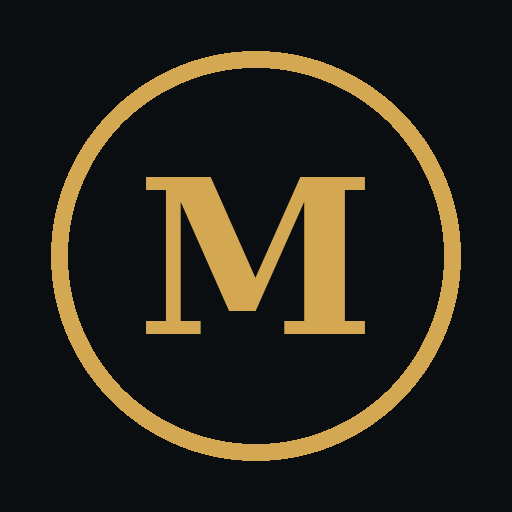
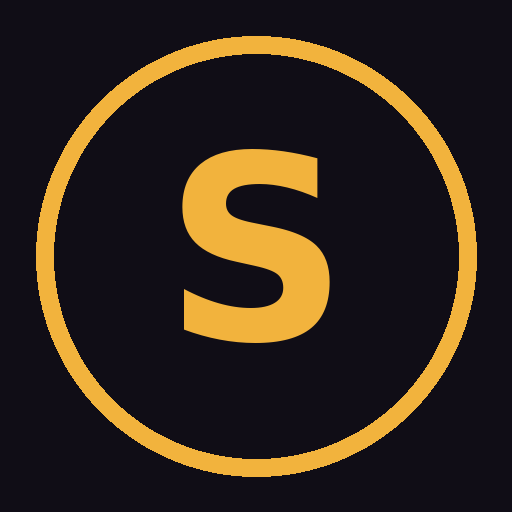
Add files via upload

Changed region(s): [[0.0625, 0.0625, 0.9375, 0.9375], [0.2812, 0.2812, 0.7188, 0.6875]]

diff --git a/index.html b/index.html
@@ -3,7 +3,7 @@
 <head>
 <meta charset="UTF-8">
 <meta name="viewport" content="width=device-width, initial-scale=1, viewport-fit=cover">
-<title>StarClip Studio v33.1 — Multi-plans 3.0 · par Studio Rudis, Douala.</title>
+<title>StarClip Studio v33.2 — limite 512 car. corrigée · par Studio Rudis, Douala.</title>
 <link rel="manifest" href="manifest.json">
 <link rel="icon" href="icon-192.png">
 <link rel="apple-touch-icon" href="icon-192.png">
@@ -304,7 +304,7 @@
   </section>
 
   <footer>
-    StarClip Studio <b style="color:var(--gold)">v33.1 — Multi-plans 3.0 (Kling 3.0)</b> · par Studio Rudis, Douala. Chaque création est débitée du crédit du studio.
+    StarClip Studio <b style="color:var(--gold)">v33.2 — Multi-plans corrigé (budget affiché)</b> · par Studio Rudis, Douala. Chaque création est débitée du crédit du studio.
     Génère des segments de 5–10 s puis assemble-les dans CapCut avec ton audio original.
   </footer>
 </div>
@@ -1675,6 +1675,13 @@ if ("serviceWorker" in navigator) navigator.serviceWorker.register("sw.js");
 // ——— v33.1 : MULTI-PLANS 3.0 (Kling 3.0, multi_prompt) ———
 // 2 à 6 plans, 15 s max au total, identité @Element1 (photos de référence visage).
 // Tarif : 2 vidéos débitées du code (appliqué par le serveur, affiché en toutes lettres).
+// v33.2 : budget réel de caractères par plan (Kling O3 limite chaque prompt à 512 car.
+// — le préfixe technique + les garde-fous courts sont fixes, ce qui reste = marge du client).
+const MS_SHORT_GUARD_LEN = " Same props as photo, no duplicated items. Person fully in frame, eyes open, realistic smooth motion. Exact same face and identity, do not alter.".length;
+const MS_PREFIX0_LEN = "Take @Image1 as the visual starting point. The person in every shot is @Element1 — keep their exact face, skin tone and identity unchanged at all times. ".length;
+const MS_PREFIXN_LEN = "Same person @Element1, exact same face and identity as the previous shot. ".length;
+function msBudget(i) { return 512 - (i === 0 ? MS_PREFIX0_LEN : MS_PREFIXN_LEN) - MS_SHORT_GUARD_LEN; }
+
 let msPlans = [{ prompt: "", d: 5 }, { prompt: "", d: 5 }];
 function msTotal() { return msPlans.reduce((s, p) => s + p.d, 0); }
 
@@ -1685,12 +1692,14 @@ function msRender() {
     const div = document.createElement("div");
     div.style.cssText = "margin-top:10px; padding:10px 12px; background:var(--up); border:1px solid var(--line); border-radius:10px;";
     const delBtn = msPlans.length > 2 ? `<button class="chip" data-del="${i}">✕ Retirer</button>` : "";
+    const budget = msBudget(i);
     div.innerHTML = `
       <div style="display:flex; justify-content:space-between; align-items:center;">
         <b style="font-size:13px; color:var(--gold);">Plan ${i + 1}</b>${delBtn}
       </div>
       <textarea data-idx="${i}" rows="2" placeholder="Ex : je marche vers la caméra sur la plage au coucher du soleil" style="width:100%; margin-top:8px; background:var(--panel); border:1px solid var(--line); border-radius:8px; color:var(--text); padding:8px 10px; font-size:14px; line-height:1.5; resize:vertical;"></textarea>
-      <div class="chips" style="margin-top:8px;">
+      <div class="estimate" data-charcount="${i}" style="margin-top:4px; text-align:right;"></div>
+      <div class="chips" style="margin-top:4px;">
         ${[3, 4, 5].map(s => `<button class="chip ${p.d === s ? "on" : ""}" data-dur-idx="${i}" data-sec="${s}">${s} s</button>`).join("")}
       </div>`;
     div.querySelector("textarea").value = p.prompt;
@@ -1715,13 +1724,24 @@ function msRefresh() {
   const hasFace = faceRefUrls.filter(Boolean).length > 0;
   const filled = msPlans.every(p => p.prompt.trim().length > 5);
   const okDur = total <= 15;
+  let anyOverBudget = false;
+  msPlans.forEach((p, i) => {
+    const budget = msBudget(i);
+    const len = p.prompt.trim().length;
+    const over = len > budget;
+    if (over) anyOverBudget = true;
+    const el = document.querySelector(`[data-charcount="${i}"]`);
+    if (el) el.innerHTML = over
+      ? `<span class="err">${len}/${budget} caractères — trop long, raccourcis !</span>`
+      : `${len}/${budget} caractères`;
+  });
   document.getElementById("msInfo").innerHTML =
     `Total : <b>${total} s</b> sur 15 s max · ${msPlans.length} plans` +
     (okDur ? "" : ` — <span class="err">trop long, réduis les durées !</span>`);
   const go = document.getElementById("msGo");
-  go.disabled = !(hasKey && hasPhoto && hasFace && filled && okDur && msPlans.length >= 2);
+  go.disabled = !(hasKey && hasPhoto && hasFace && filled && okDur && !anyOverBudget && msPlans.length >= 2);
   go.textContent = go.disabled
-    ? "Complète les plans pour générer"
+    ? (anyOverBudget ? "Raccourcis le(s) plan(s) trop long(s)" : "Complète les plans pour générer")
     : "🎬 Générer le multi-plans (− 2 vidéos de ton code)";
   document.getElementById("msCost").innerHTML = go.disabled
     ? (hasFace ? "" : `⭐ Ajoute au moins <b>1 photo de référence visage</b> (volet 1, bouton violet) — c'est elle qui garde ton visage identique d'un plan à l'autre.`)
@@ -1753,13 +1773,18 @@ document.getElementById("msGo").onclick = async () => {
     const r = ratioChip ? ratioChip.dataset.ratio : "orig";
     const aspect = (r === "16:9" || r === "1:1") ? r : "9:16";
     const faceGuard = buildFaceGuard();
-    const mp = msPlans.map((p, i) => ({
-      prompt: (i === 0
+    // v33.2 : garde-fous courts dédiés au multi-plans (mêmes constantes que le compteur affiché).
+    const shortSuffix = " Same props as photo, no duplicated items. Person fully in frame, eyes open, realistic smooth motion." + (faceGuard ? " Exact same face and identity, do not alter." : "");
+    const clip = (txt, max) => txt.length > max ? txt.slice(0, max - 1).trim() + "…" : txt;
+    const mp = msPlans.map((p, i) => {
+      const prefix = i === 0
         ? "Take @Image1 as the visual starting point. The person in every shot is @Element1 — keep their exact face, skin tone and identity unchanged at all times. "
-        : "Same person @Element1, exact same face and identity as the previous shot. ")
-        + p.prompt.trim() + QUALITY_GUARD + faceGuard,
-      duration: String(p.d),
-    }));
+        : "Same person @Element1, exact same face and identity as the previous shot. ";
+      return {
+        prompt: prefix + clip(p.prompt.trim(), msBudget(i)) + shortSuffix,
+        duration: String(p.d),
+      };
+    });
     const payload = {
       multi_prompt: mp,
       image_urls: [stylePhotoUrl || photoDataUrl],